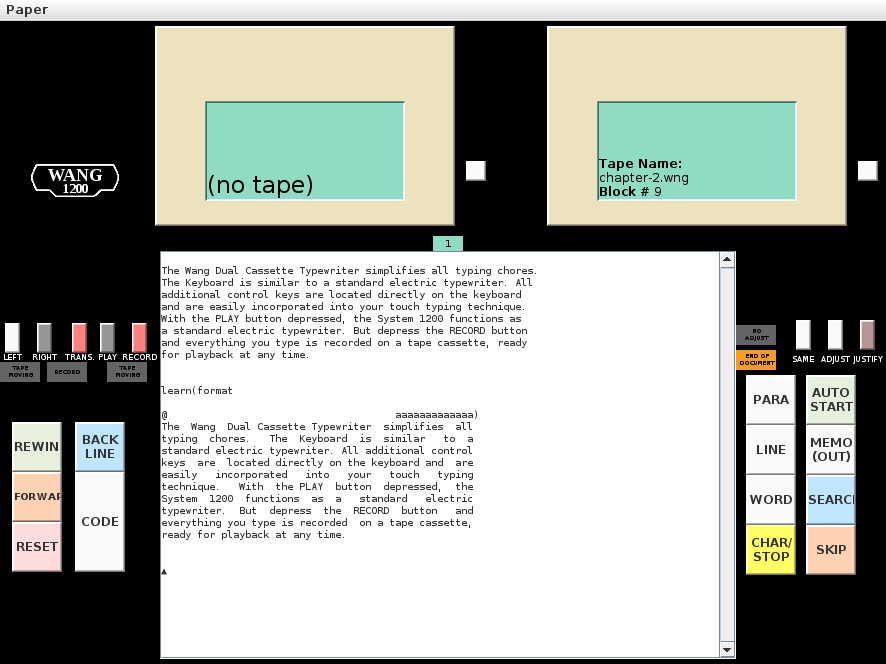
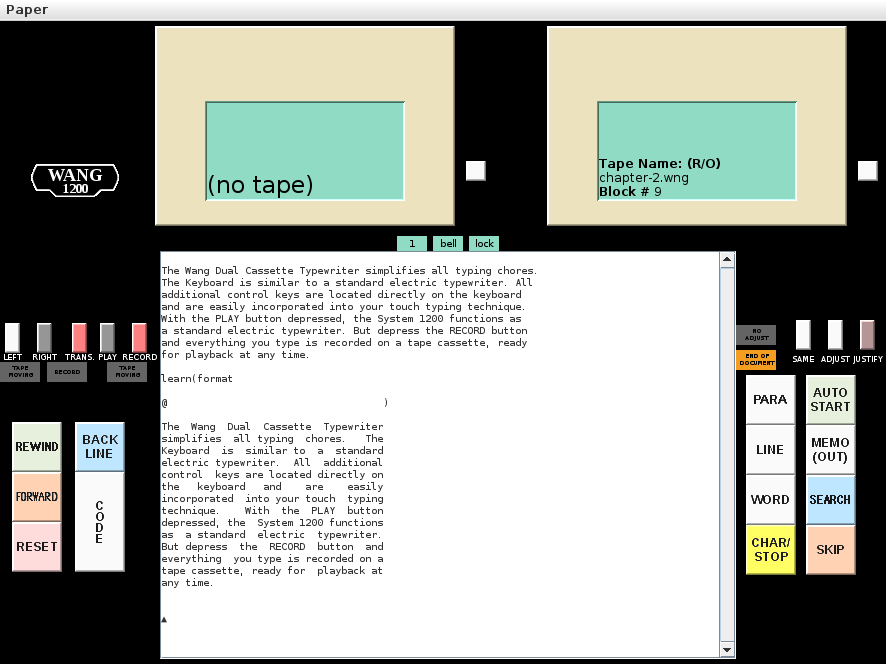
fix problem with over writing existing tape data

diff --git a/w1200-sim/w1200_fe.java b/w1200-sim/w1200_fe.java
@@ -1,5 +1,5 @@
 // Copyright (c) 2011,2012 Douglas Miller
-// $Id: w1200_fe.java,v 1.27 2012/01/14 21:49:03 drmiller Exp $
+// $Id: w1200_fe.java,v 1.28 2012/01/15 01:42:05 drmiller Exp $
 
 import java.awt.*;
 import java.awt.event.*;
@@ -13,7 +13,7 @@ import javax.print.attribute.*;
 import javax.print.attribute.standard.*;
 
 class _Key {
-	final String ident = "$Id: w1200_fe.java,v 1.27 2012/01/14 21:49:03 drmiller Exp $";
+	final String ident = "$Id: w1200_fe.java,v 1.28 2012/01/15 01:42:05 drmiller Exp $";
 
 	static final Color orange1 = new Color(255, 210, 180);
 	static final Color orange2 = new Color(255, 255, 100);	// illuminated
@@ -152,7 +152,7 @@ class FEexit extends Thread {
 
 public class w1200_fe
 {
-	final String ident = "$Id: w1200_fe.java,v 1.27 2012/01/14 21:49:03 drmiller Exp $";
+	final String ident = "$Id: w1200_fe.java,v 1.28 2012/01/15 01:42:05 drmiller Exp $";
 
 	public static File _dir;
 	public static java.text.SimpleDateFormat _timestamp =
@@ -392,7 +392,7 @@ public class w1200_fe
 }
 
 class Wang1200_Indicator extends JLabel {
-	final String ident = "$Id: w1200_fe.java,v 1.27 2012/01/14 21:49:03 drmiller Exp $";
+	final String ident = "$Id: w1200_fe.java,v 1.28 2012/01/15 01:42:05 drmiller Exp $";
 	static final long serialVersionUID = 311457692038L;
 
 //	GridBagLayout gridbag = new GridBagLayout();
@@ -468,7 +468,7 @@ class Wang1200_SimError
 class Wang1200_SimInput
 		implements Runnable, WindowListener, ActionListener
 {
-	final String ident = "$Id: w1200_fe.java,v 1.27 2012/01/14 21:49:03 drmiller Exp $";
+	final String ident = "$Id: w1200_fe.java,v 1.28 2012/01/15 01:42:05 drmiller Exp $";
 	Wang1200_Tape _tapel;
 	Wang1200_Tape _taper;
 	Wang1200_Model611 _m611;
@@ -633,7 +633,7 @@ class Wang1200_SimInput
 
 class Wang1200_TapeEject extends Wang1200_Keyboards
 {
-	final String ident = "$Id: w1200_fe.java,v 1.27 2012/01/14 21:49:03 drmiller Exp $";
+	final String ident = "$Id: w1200_fe.java,v 1.28 2012/01/15 01:42:05 drmiller Exp $";
 	static final long serialVersionUID = 311057692031L;
 	static final int num_keys = 1;
 
@@ -671,7 +671,7 @@ class Wang1200_TapeEject extends Wang1200_Keyboards
 
 class Wang1200_Tape extends JComponent
 {
-	final String ident = "$Id: w1200_fe.java,v 1.27 2012/01/14 21:49:03 drmiller Exp $";
+	final String ident = "$Id: w1200_fe.java,v 1.28 2012/01/15 01:42:05 drmiller Exp $";
 	static final long serialVersionUID = 311457692039L;
 	java.io.RandomAccessFile _tf;
 	java.io.OutputStream _fout;
@@ -841,6 +841,7 @@ class Wang1200_Tape extends JComponent
 		}
 		if (newidx == _index) return;	// should not happen?
 		try {
+//System.err.println("Seeking "+ (newidx * 108));
 			// each block is 108 bytes (currently)
 			_tf.seek(newidx * 108);
 		} catch (IOException ee) {
@@ -1074,7 +1075,7 @@ class Wang1200_Model611
 	implements ActionListener, ComponentListener
 {
 	static final long serialVersionUID = 31140769203L;
-	final String ident = "$Id: w1200_fe.java,v 1.27 2012/01/14 21:49:03 drmiller Exp $";
+	final String ident = "$Id: w1200_fe.java,v 1.28 2012/01/15 01:42:05 drmiller Exp $";
 	private byte[] cn24_xlate;
 	private byte[] cn24_revxlate;
 	private char[] cn24_spcl;
@@ -1538,7 +1539,7 @@ class Wang1200_Model611
 		s.insets = new Insets(0, 3, 0, 3);
 		gridbag.setConstraints(_bell, s);
 		add(_bell);
-		timer = new Timer(100, this);
+		timer = new Timer(500, this);
 
 		_lock = new JLabel("lock");
 		_lock.setVerticalAlignment(SwingConstants.CENTER);
@@ -1792,7 +1793,7 @@ class Wang1200_Model611
 class Wang1200_Keyboard extends JComponent
 	implements ActionListener, KeyListener, WindowListener, ComponentListener
 {
-	final String ident = "$Id: w1200_fe.java,v 1.27 2012/01/14 21:49:03 drmiller Exp $";
+	final String ident = "$Id: w1200_fe.java,v 1.28 2012/01/15 01:42:05 drmiller Exp $";
 	static final long serialVersionUID = 31145769203L;
 	static final int num_kbds = 4;
 
@@ -2191,7 +2192,7 @@ if (false) System.err.println("stupid warnings "+url);
 
 class Wang1200_Keyboards extends JComponent
 {
-	final String ident = "$Id: w1200_fe.java,v 1.27 2012/01/14 21:49:03 drmiller Exp $";
+	final String ident = "$Id: w1200_fe.java,v 1.28 2012/01/15 01:42:05 drmiller Exp $";
 	static final long serialVersionUID = 311457692034L;
 	public Wang1200_Keyboards() { }
 
@@ -2337,7 +2338,7 @@ if (url != null) {
 
 class Wang1200_Keyboard_left extends Wang1200_Keyboards
 {
-	final String ident = "$Id: w1200_fe.java,v 1.27 2012/01/14 21:49:03 drmiller Exp $";
+	final String ident = "$Id: w1200_fe.java,v 1.28 2012/01/15 01:42:05 drmiller Exp $";
 	static final long serialVersionUID = 311457692031L;
 	static final int num_keys = 10;
 
@@ -2476,7 +2477,7 @@ class Wang1200_Keyboard_left extends Wang1200_Keyboards
 
 class Wang1200_Keyboard_right extends Wang1200_Keyboards
 {
-	final String ident = "$Id: w1200_fe.java,v 1.27 2012/01/14 21:49:03 drmiller Exp $";
+	final String ident = "$Id: w1200_fe.java,v 1.28 2012/01/15 01:42:05 drmiller Exp $";
 	static final long serialVersionUID = 311457692033L;
 	static final int num_keys = 11;
 

diff --git a/w1200-sim/w1200_decode.c b/w1200-sim/w1200_decode.c
@@ -1,6 +1,6 @@
 // Copyright (c) 2011,2012 Douglas Miller
 
-#ident "$Id: w1200_decode.c,v 1.32 2012/01/14 21:48:32 drmiller Exp $"
+#ident "$Id: w1200_decode.c,v 1.33 2012/01/15 01:42:05 drmiller Exp $"
 
 #undef DOUGS_PATCHES
 
@@ -851,7 +851,13 @@ int instr_exec(wang_sys_t *sys) {
 		}
 		break;
 	case 10:
-		tape_read(sys);	// must not block, if no data being read...
+		// don't know if this register is being polled
+		// for tape data or for tape ready/protect...
+//fprintf(stderr, "mop10: %s rhs=%d lhs=%d rc=%d hl=%d rv=%d tm=%d\n", sys->cpu.right ? "R" : "L",
+//sys->cpu.rhs, sys->cpu.lhs, sys->cpu.rc, sys->cpu.hl, sys->cpu.rv, sys->cpu.tm);
+		if (sys->cpu.rc == 0) {
+			tape_read(sys);	// must not block, if no data being read...
+		}
 		// Dout<0>, Dout<1>, LeftProt, RightProt
 		sys->cpu.kb =	(sys->cpu.tck << 1) |
 				(sys->cpu.dk  << 0) |
@@ -882,6 +888,8 @@ int instr_exec(wang_sys_t *sys) {
 		sys->cpu.hl = (br_k >> 3) & 1;	// tape direction set/enable?
 		sys->cpu.rv = (br_k >> 1) & 1;	// tape motor must be off to set direction!
 		sys->cpu.tm = (u->mop == 13);
+//fprintf(stderr, "mop%d: %s rhs=%d lhs=%d rc=%d hl=%d rv=%d tm=%d\n", u->mop, sys->cpu.right ? "R" : "L",
+//sys->cpu.rhs, sys->cpu.lhs, sys->cpu.rc, sys->cpu.hl, sys->cpu.rv, sys->cpu.tm);
 		if (sys->cpu.tm) {
 			tape_on(sys);
 		} else {
